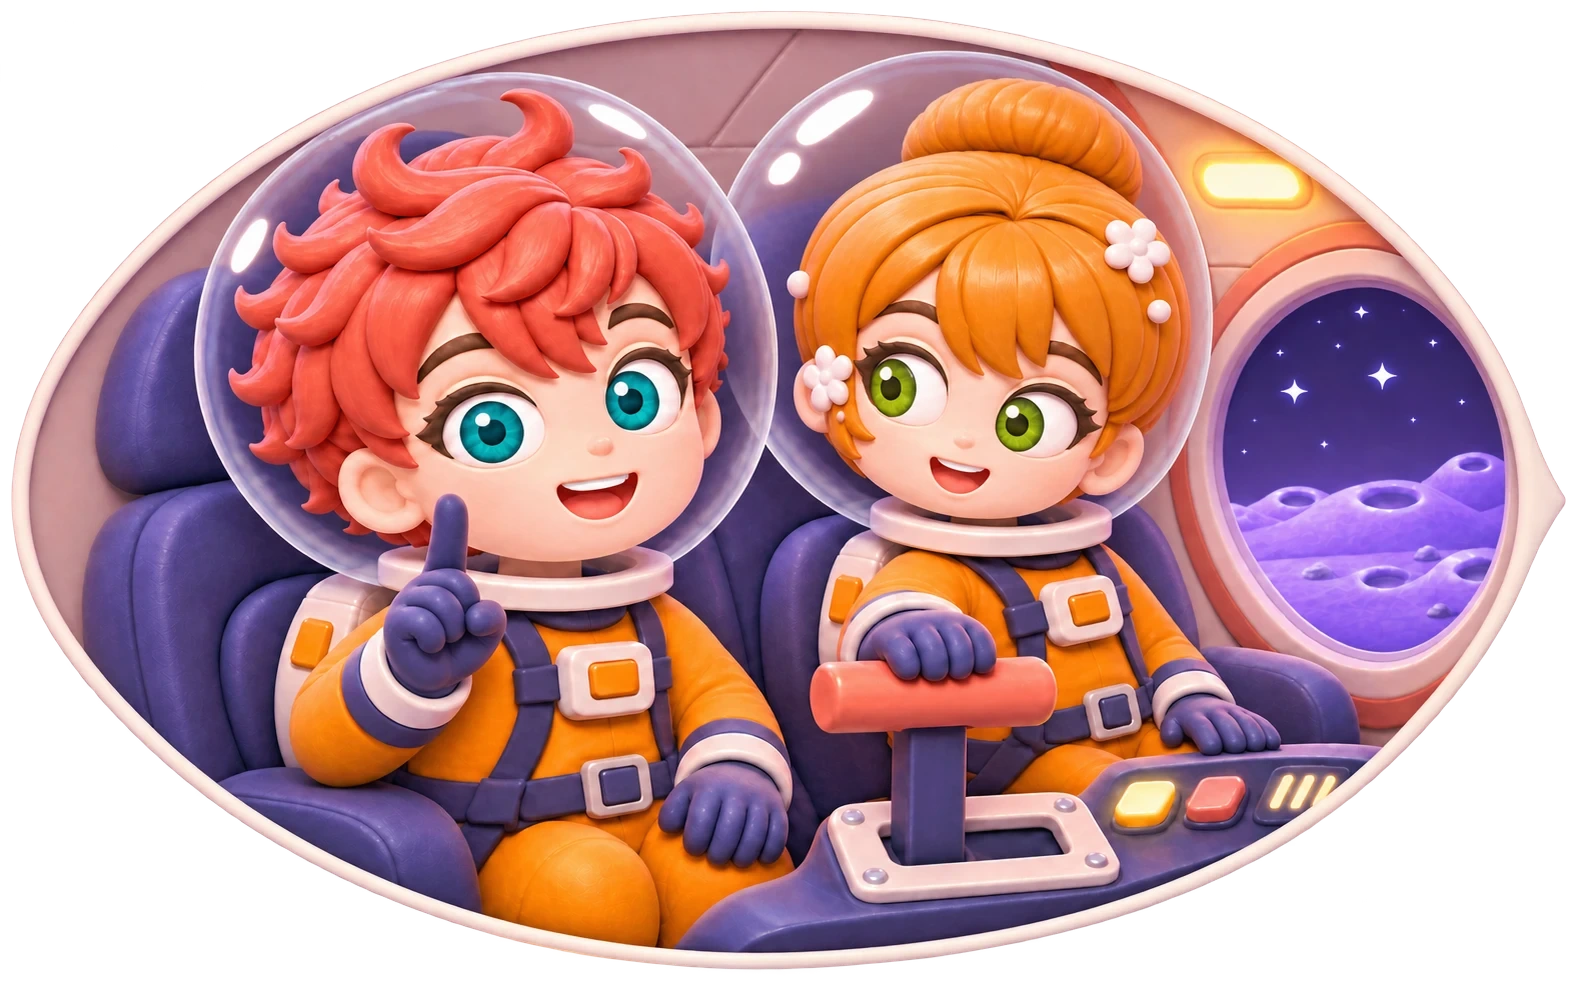
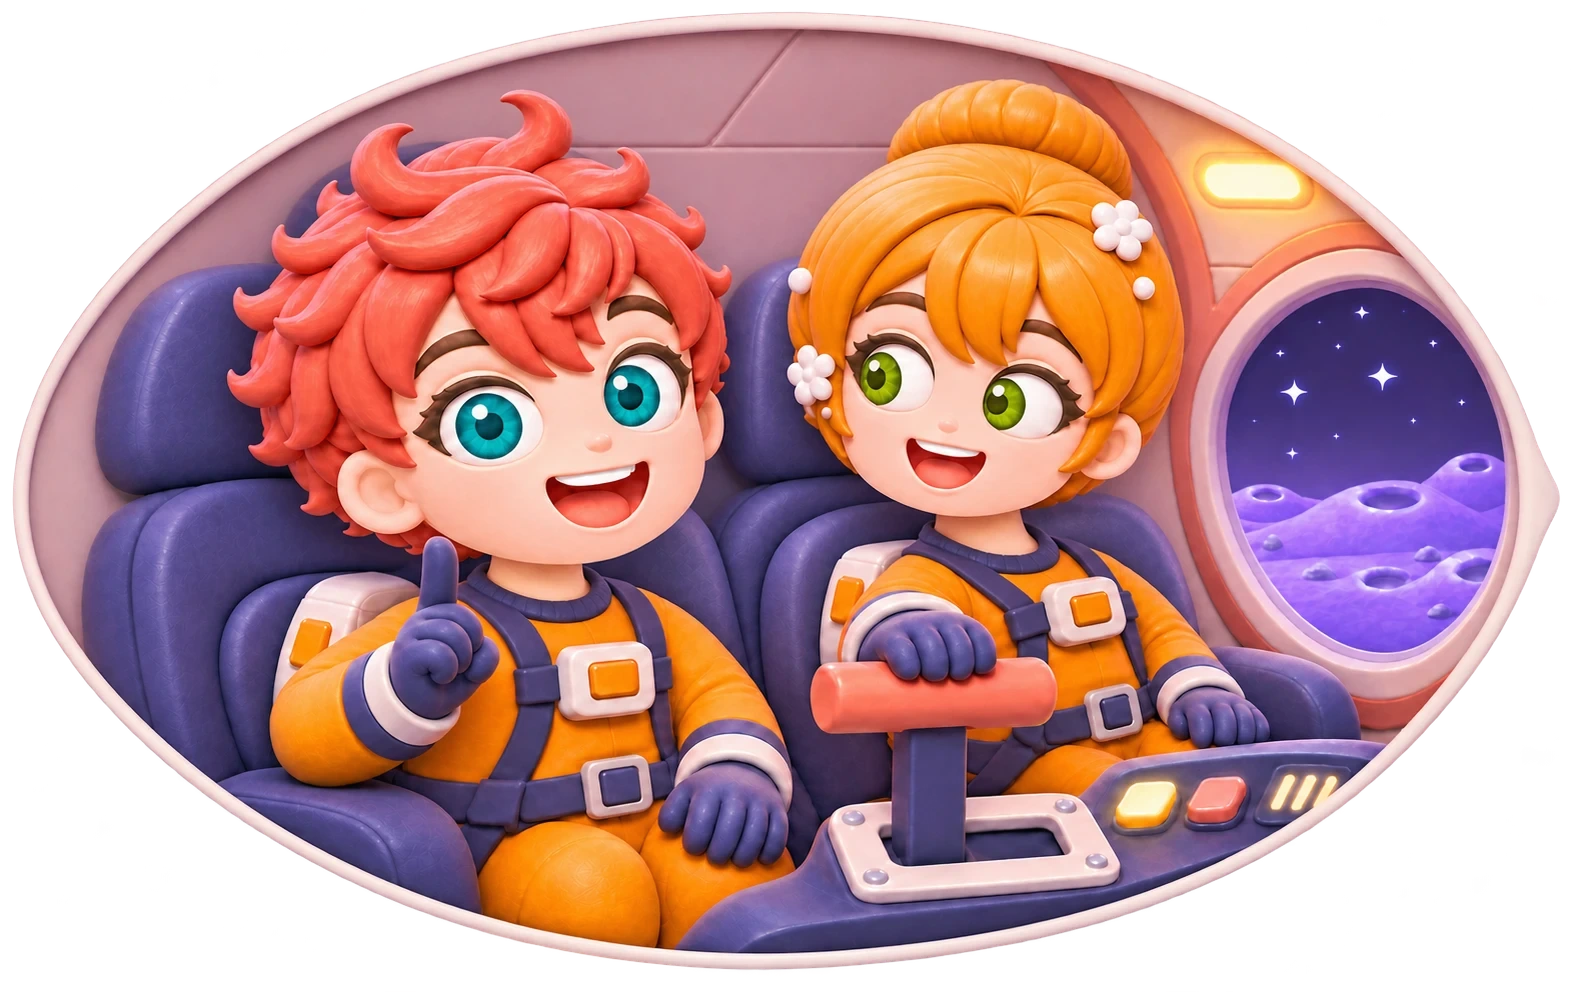
P-05 A-11 조종석 그림 바꿈 — 헬멧 없는 그림 · 창 테두리를 재서 A-10 창과 같은 자리 · 크기로

diff --git a/kiosk/src/renderer/p05/script.ts b/kiosk/src/renderer/p05/script.ts
@@ -195,8 +195,8 @@ const ROCKET_FAR: SceneProp = { name: 'prop-rocket', cx: 1130, cy: 215, w: 72 }
  */
 const COCKPIT: SceneProp = { name: 'prop-cockpit', cx: 685, cy: 412, w: 1314, fx: 'window' }
 
-/** A-11 다시 말하기 — 같은 조종석 창, 남자아이가 손가락 하나 "한 번 더" (2026-11-27 그림 — 창 테두리가 A-10 그림과 같은 자리라 스르르 바뀐다) */
-const COCKPIT_RETRY: SceneProp = { name: 'prop-cockpit-retry', cx: 685, cy: 412, w: 1313, fx: 'window' }
+/** A-11 다시 말하기 — 같은 조종석 창, 남자아이가 손가락 하나 "한 번 더" (2026-11-27 그림 · 같은 날 헬멧 없는 그림으로 바꿈 — 창 테두리를 재서 A-10 창과 같은 자리 · 크기로 맞춤) */
+const COCKPIT_RETRY: SceneProp = { name: 'prop-cockpit-retry', cx: 693, cy: 415, w: 1333, fx: 'window' }
 
 /** A-10 · A-11 조종석 장면의 소품 — 로켓 · 행성 · 노란 별은 앞 장면 자리 그대로, 새 별은 창에 가려 빠지고 시안처럼 작은 노란 별 둘 */
 const COCKPIT_PROPS = (cockpit: SceneProp): SceneProp[] => [
